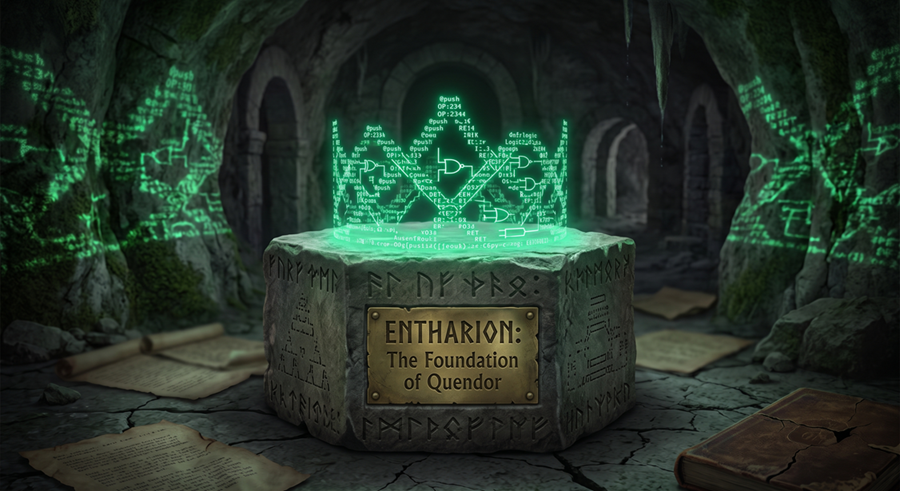
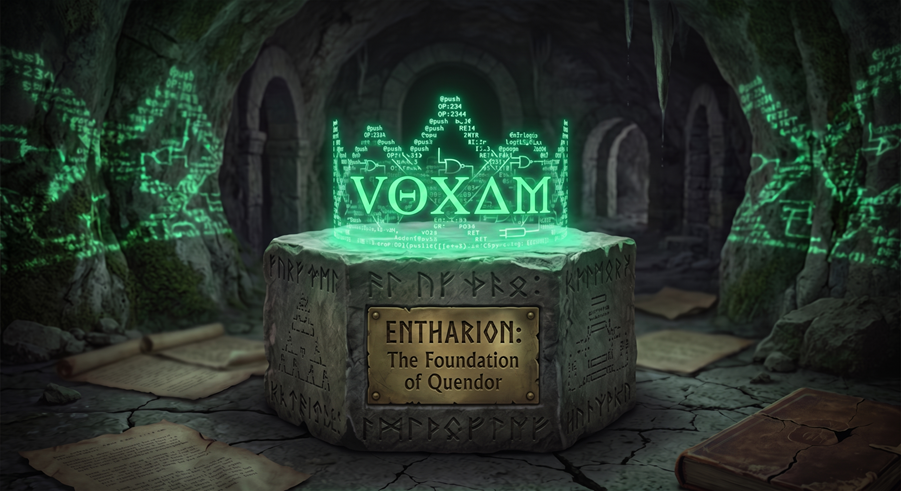
chore: update project documentation

Changed region(s): [[0.3733, 0.2749, 0.6222, 0.4888], [0.4667, 0.2138, 0.5289, 0.3055]]

diff --git a/README.md b/README.md
@@ -6,7 +6,9 @@ Long before the Great Underground Empire was defined by the eccentricities of th
 
 In the context of this software ecosystem, this repository serves an identical purpose.
 
-Building a robust Z-Machine interpreter is an exercise in taming decades of scattered documentation, intricate specification files, and nuanced historical edge cases. This repository is the foundational realm where that chaos is conquered. It acts as the central hub for all the resources, tests, and reference materials required to build a compliant virtual machine. Just as the historical king established the stability necessary for an empire to rise, this repository provides the structural bedrock that allows [Quendor](https://github.com/jeffnyman/quendor), my actual Z-Machine interpreter application, to be successfully realized. Here, the foundations are laid so that the empire of text adventures can safely run.
+Building a robust Z-Machine interpreter is an exercise in taming decades of scattered documentation, intricate specification files, and nuanced historical edge cases. This repository is the foundational realm where that chaos is conquered. It acts as the central hub for all the resources, tests, and reference materials required to build a compliant virtual machine. Just as the historical king established the stability necessary for an empire to rise, this repository provides the structural bedrock that allows [Quendor](https://github.com/jeffnyman/quendor), my initial, and now superseded, Z-Machine interpreter application, to be successfully realized. Here, the foundations are laid so that the empire of text adventures can safely run.
+
+To make those foundational laws actionable, however, a kingdom requires more than decree; it requires incantation. In the lore of magic, Voxam is a spell designed to untangle and separate disparate energies so they can be properly understood. Within this architecture, [VΘXΔM](https://github.com/jeffnyman/voxam) serves that precise function. It acts as the codified grimoire of references, opcode specifications, and structural formulas that distill the complexities of the Z-Machine standard into discrete, executable truth. If Entharion establishes the realm and Quendor embodied the living engine, VΘXΔM provides the essential incantations that empower the interpreter to parse chaos into coherence.
 
 ---
 
